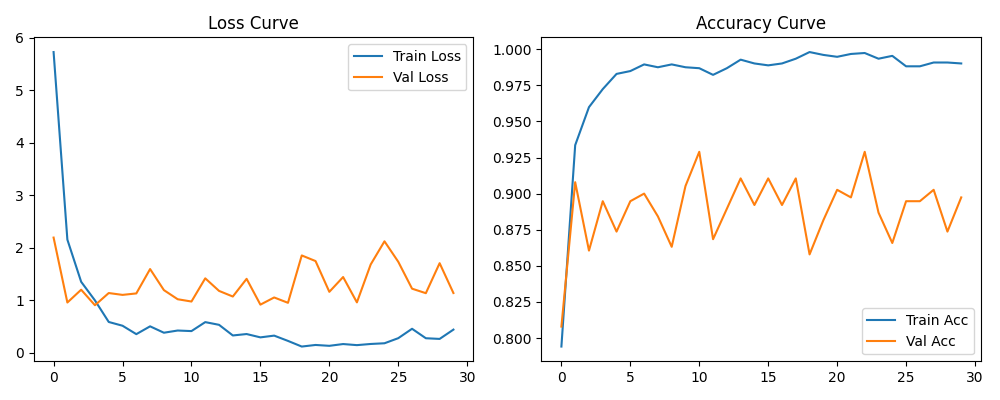
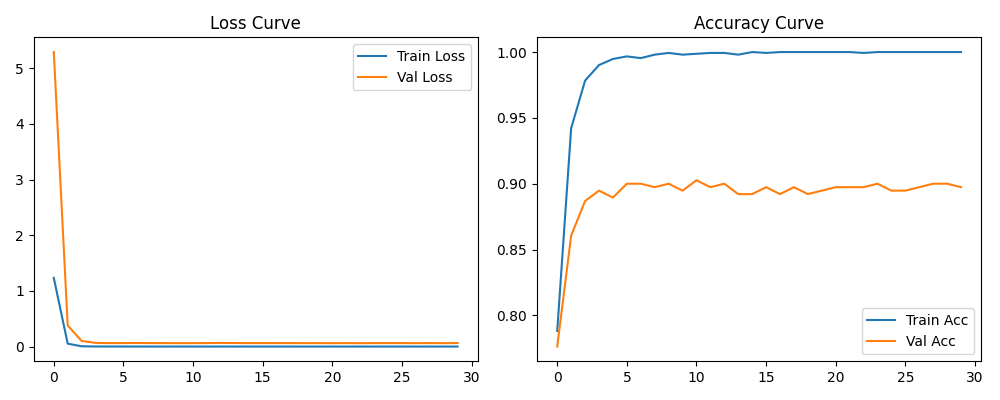
Test focal loss and class weights but failed

diff --git a/train.py b/train.py
@@ -6,7 +6,9 @@ from torchvision import transforms, models
 from sklearn.metrics import accuracy_score
 from dataset import CustomImageDataset, train_samples, val_samples
 from tqdm import tqdm
+from collections import Counter
 from augment import train_transform, val_transform
+from losses import FocalLoss
 
 
 # ⚙ 設定
@@ -28,13 +30,26 @@ val_dataset = CustomImageDataset(val_samples, transform=val_transform)
 train_loader = DataLoader(train_dataset, batch_size=batch_size, shuffle=True)
 val_loader = DataLoader(val_dataset, batch_size=batch_size, shuffle=False)
 
+# 📦 1. 統計訓練資料中每個類別的樣本數
+train_labels = [s[1] for s in train_samples]
+label_count = Counter(train_labels)
+print("Train label distribution:", label_count)
+
+# 📦 2. 計算 class weights（樣本數越少，權重越大）
+total = sum(label_count.values())
+num_classes = len(label_count)
+class_weights = [total / (num_classes * label_count[i]) for i in range(num_classes)]
+class_weights = torch.tensor(class_weights, dtype=torch.float32).to(device)
+print("Class Weights:", class_weights)
+
 # 🧠 模型：ResNet50
-model = models.resnet50(pretrained=True)
+model = models.resnet152(pretrained=True)
 model.fc = nn.Linear(model.fc.in_features, num_classes)
 model = model.to(device)
 
 # 🎯 Loss / Optimizer
-criterion = nn.CrossEntropyLoss()
+# criterion = nn.CrossEntropyLoss()
+criterion = FocalLoss(alpha=class_weights, gamma=2)
 optimizer = torch.optim.Adam(model.parameters(), lr=learning_rate)
 
 # 📊 記錄用
@@ -67,7 +82,7 @@ for epoch in range(num_epochs):
     model.eval()
     val_loss, val_preds, val_labels = 0, [], []
     with torch.no_grad():
-        for x, y in tqdm(val_loader, desc=f"Epoch {epoch+1:02d} [Val]"):
+        for x, y in val_loader:
             x, y = x.to(device), y.to(device)
             out = model(x)
             loss = criterion(out, y)

diff --git a/augment.py b/augment.py
@@ -1,15 +1,10 @@
 from torchvision import transforms
 
-train_transform = transforms.Compose(
-    [
-        transforms.Resize((256, 256)),
-        transforms.RandomResizedCrop(224, scale=(0.8, 1.0)),
-        transforms.RandomHorizontalFlip(p=0.5),
-        transforms.RandomRotation(15),
-        transforms.ColorJitter(brightness=0.2, contrast=0.2, saturation=0.2),
-        transforms.ToTensor(),
-    ]
-)
+train_transform = transforms.Compose([
+    transforms.Resize((224, 224)),
+    transforms.ToTensor(),
+])
+
 
 
 val_transform = transforms.Compose(

diff --git a/losses.py b/losses.py
@@ -1,0 +1,16 @@
+import torch 
+import torch.nn as nn
+import torch.nn.functional as F
+
+class FocalLoss(nn.Module):
+    def __init__(self, alpha=None, gamma=2):
+        super(FocalLoss, self).__init__()
+        self.alpha = alpha  # class weights
+        self.gamma = gamma
+        self.ce = nn.CrossEntropyLoss(weight=alpha)
+
+    def forward(self, inputs, targets):
+        ce_loss = self.ce(inputs, targets)
+        pt = torch.exp(-ce_loss)
+        focal_loss = ((1 - pt) ** self.gamma * ce_loss).mean()
+        return focal_loss
